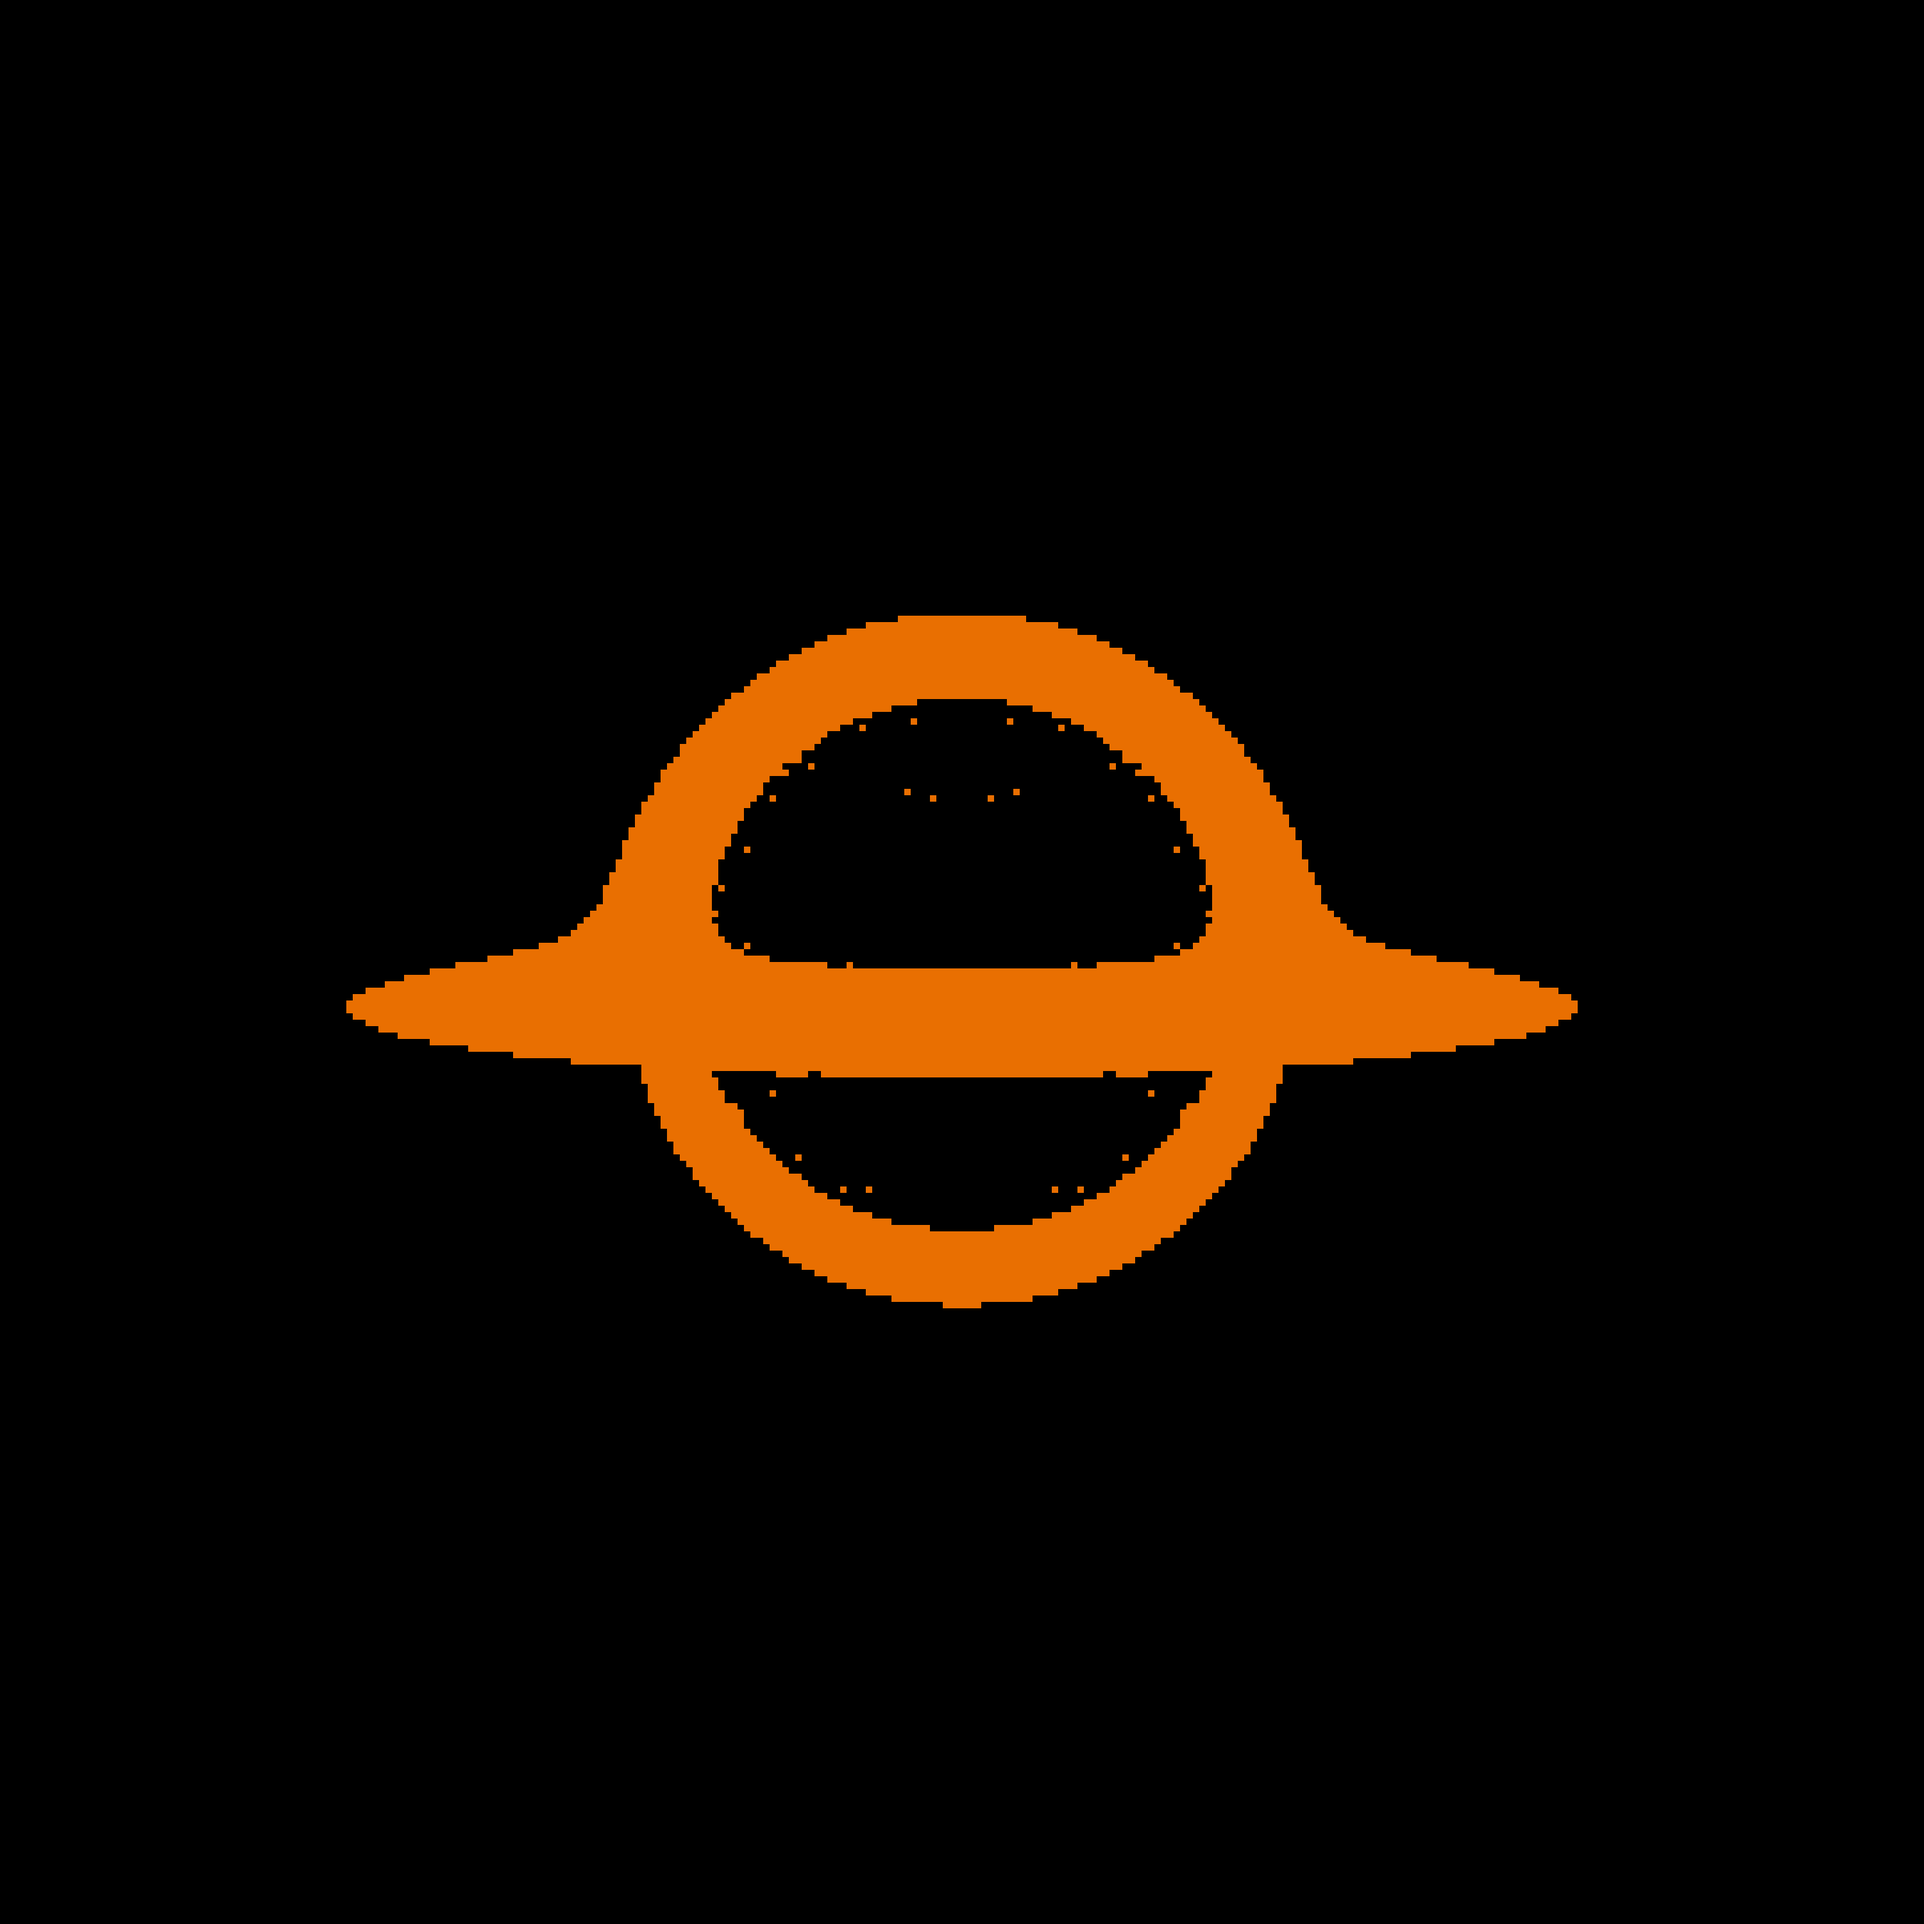
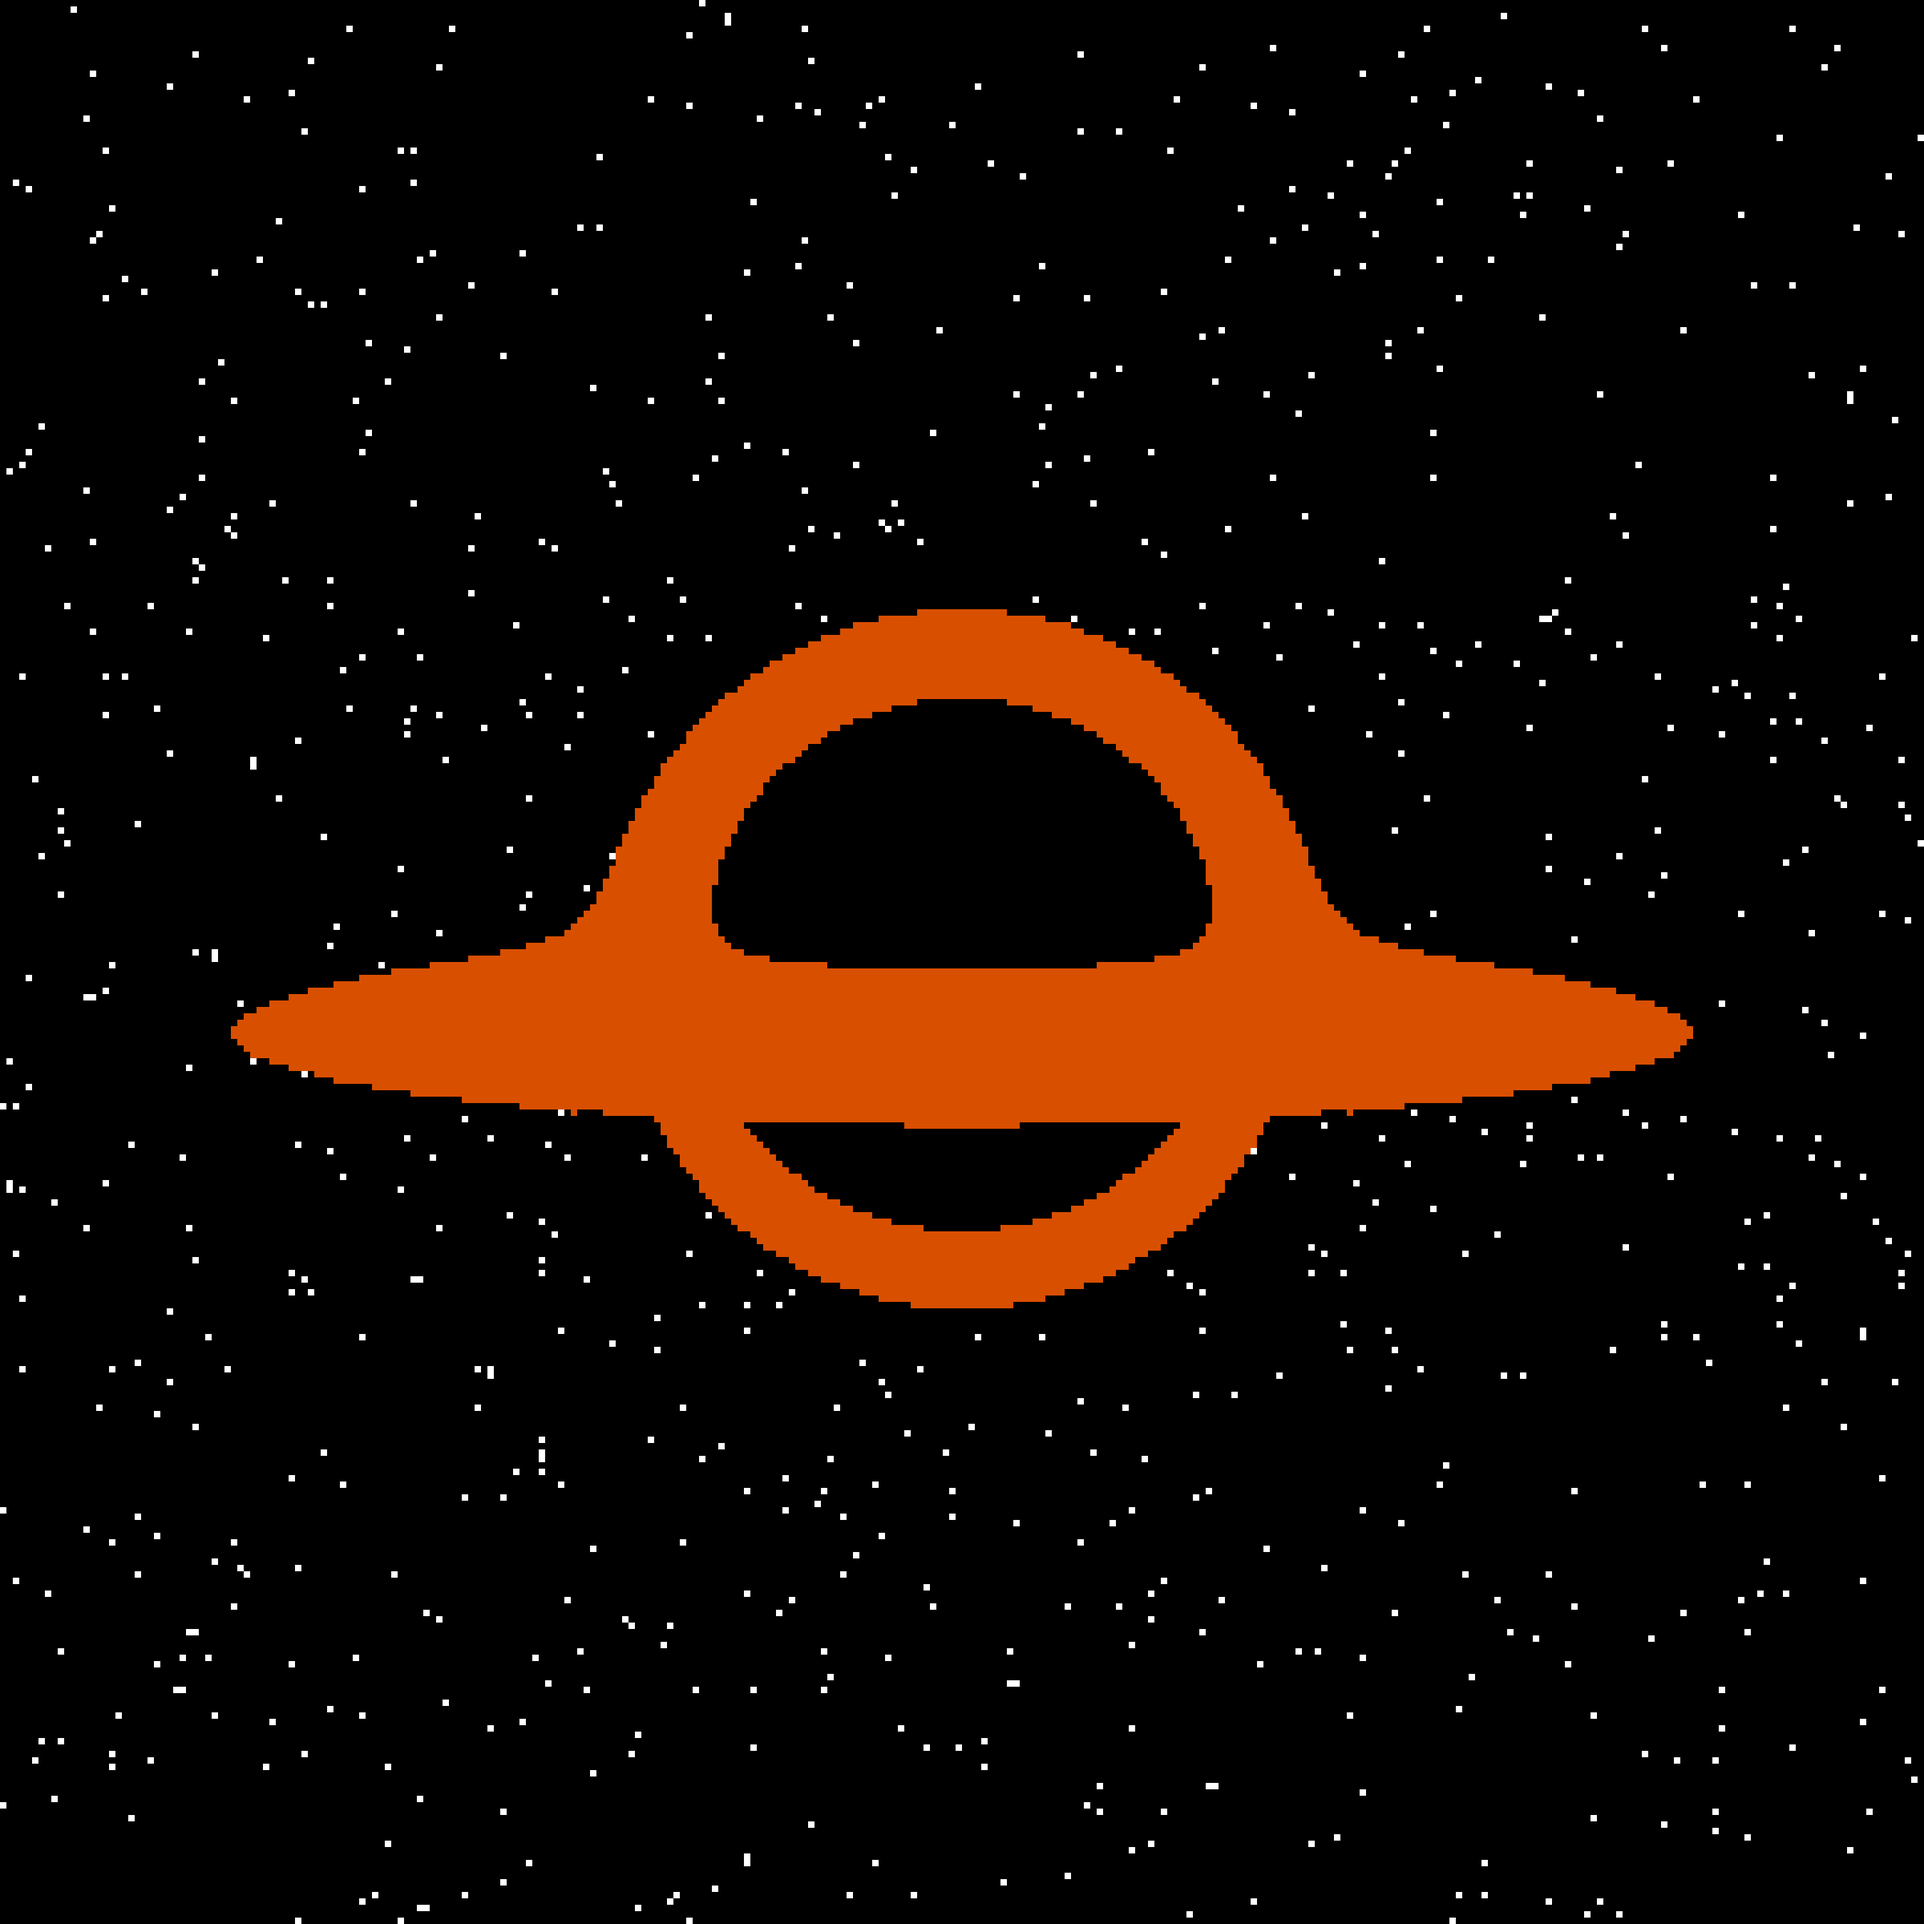
perfect image

Changed region(s): [[0.124, 0.31, 0.899, 0.682]]

diff --git a/ray_engine/ray_cast.c b/ray_engine/ray_cast.c
@@ -1,8 +1,16 @@
 #include <unistd.h>
+#include <math.h>
+#include <stdlib.h>
 #include <stdio.h>
 #include <string.h>
 #include "../ODE_solver/ODE_solver.h"
 #include "ray_cast.h"
+
+void reset_angles(double state[2][8]){
+    //if(state[0][2] < 0){
+    //state[0][2] = abs(state[0][2]);
+    //state[0][3] += 3.14;}
+}
 
 int sign_flip(double state[2][8])
 {
@@ -16,7 +24,7 @@ int sign_flip(double state[2][8])
 
 int hit_detection(double state[2][8], float dt, float radius)
 {
-    for (int c = 0; c < 10; c++){
+    for (int c = 0; c < 3; c++){
         dt = 0.5 * dt;
         
         double state_prev[2][8];
@@ -45,7 +53,7 @@ int ray_cast(double state[2][8], float dt, float tmax, float radius)
         // printf("%f", state[1][1]);
 
         // if radius smaller than 1: return 0
-        if(state[1][1] <= 1)
+        if(state[1][1] <= 1 || fabs(state[1][1] - 1) < 0.001)
         {   
             return 0;
         }
@@ -61,7 +69,14 @@ int ray_cast(double state[2][8], float dt, float tmax, float radius)
         }
         
     }
-
-    // if no hit: return 0
-    return 0;
+    
+    // if no hit: return 0 or 2
+    if(rand() / (float) RAND_MAX < 0.01)
+    {
+        return 2;
+    }
+    else
+    {
+        return 0;
+    }
 }

diff --git a/display/display.c b/display/display.c
@@ -3,6 +3,7 @@
 #include <stdbool.h>
 #include "./display.h"
 
+
 void rotate_image(int px, int grid[px][px]){
     for (int i = 0; i < px; i++) {
         for (int j = i + 1; j < px; j++) {
@@ -16,7 +17,7 @@ void rotate_image(int px, int grid[px][px]){
 void display(int px, int grid[px][px])
 {
     rotate_image(px, grid);
-     SDL_Init(SDL_INIT_VIDEO);
+    SDL_Init(SDL_INIT_VIDEO);
     IMG_Init(IMG_INIT_PNG);
 
     int width = px * CELL;
@@ -51,8 +52,10 @@ void display(int px, int grid[px][px])
     {
         for (int x = 0; x < px; x++)
         {
-            if (grid[y][x])
-                SDL_SetRenderDrawColor(renderer, 233, 111, 1, 255);
+            if (grid[y][x] == 1)
+                SDL_SetRenderDrawColor(renderer, 217, 79, 0, 255);
+            else if(grid[y][x] == 2)
+                SDL_SetRenderDrawColor(renderer, 255, 255, 255, 255);
             else
                 SDL_SetRenderDrawColor(renderer, 0, 0, 0, 255);
 

diff --git a/main.c b/main.c
@@ -1,5 +1,6 @@
 #include <unistd.h>
 #include <stdio.h>
+#include <stdlib.h>
 #include <string.h>
 #include <stdbool.h>
 #include "./ray_engine/ray_engine.h"
@@ -19,8 +20,8 @@ int main(void)
     //evolve every ray with ray_cast(double state[2][8], float dt, float tmax, float radius)
 
     double dt = 0.004;
-    double tmax = 3.0;
-    double radius = 1.2;
+    double tmax = 5.0;
+    double radius = 1.26;
 
     int ray_img[px][px];
     for(int i = 0; i < px; i++)
